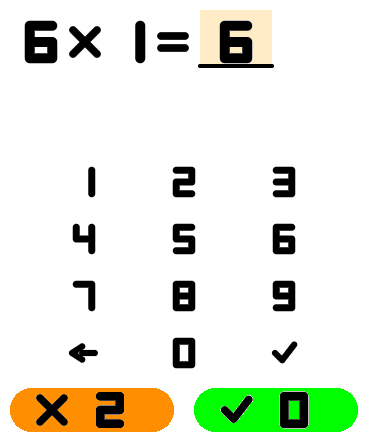
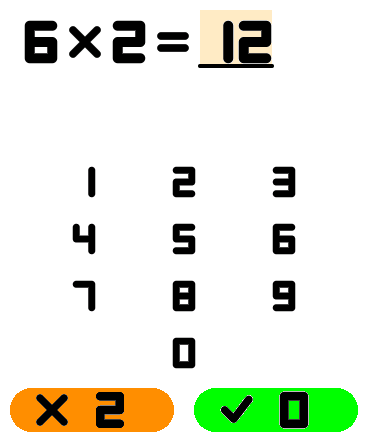
tables: the second digit is the answer, so there is nothing left to press
The owner watched his niece use this: "6x7 elle a marque 42 et elle
attendait. Apres elle se rappelait qu'il fallait qu'elle appuie sur
rentrer." A key meaning "I have finished answering" is a convention she has
no reason to hold, and she could not work out backspace either.

So the answer judges itself the moment it is complete. That needs one
number the app can be sure of, and dropping x1 supplies it: 6x2 through
9x10 is 12 to 90, every product exactly two digits, no special case
anywhere. The nines come in at the same time, which costs nothing since
they are two digits too.

Both keys go with it. Rather than leave dead cells either side of a lone
zero, the zero takes the whole bottom row: the easiest target on the pad,
which suits the digit reached for last and least confidently.

The caret goes too, on the owner's own report of it on the panel: with
self-judging its job lasted one keystroke, and a 4px capsule reads as a
stair at 322ppi.

The cost, stated plainly: a slip is now marked wrong instead of corrected.
PHASE_WRONG_RETRY already puts the same question straight back, so it costs
one red mark and an immediate second go, and nothing on the pad has to be
taught. If that rate bothers her in use, backspace is a smaller change than
teaching a key nobody presses.

The three tests that pinned backspace and the caret are rewritten to pin
what replaced them, including the absence of the caret, rather than
[…]

diff --git a/devices/rp2350-amoled-1.8/emulator/wasm/tests/feature-tables.ts b/devices/rp2350-amoled-1.8/emulator/wasm/tests/feature-tables.ts
@@ -236,16 +236,29 @@ async function main() {
       `worst offender (0,0)=none else (${worst.x},${worst.y})`);
   }
 
-  // ---- a digit tap appends to the answer, backspace removes it ----------
+  // ---- a digit tap appends, and the whole bottom row is one zero --------
+  //
+  // Backspace and the check key are both gone (the answer judges itself the
+  // moment its second digit lands), so the bottom row is a single
+  // triple-width zero. This used to assert that the bottom-left cell logged
+  // a backspace; it now asserts that the SAME two positions, either end of
+  // that row, both land on the zero. Rewritten rather than deleted: the row
+  // still has to do something, and what it does changed.
   {
     const dev = await loadDevice();
     await enterTables(dev, APP_TABLES);
     pressCell(dev, digitCell(4));
     let log = dev.drainLog();
     check("a digit tap logs the digit it appended", log.some((l) => l.includes("tables: digit 4")), log.join(" | "));
-    pressCell(dev, CELL_BACK);
-    log = dev.drainLog();
-    check("backspace logs", log.some((l) => l.includes("tables: backspace")), log.join(" | "));
+
+    for (const [name, cell] of [["left", CELL_BACK], ["right", CELL_CHECK]] as const) {
+      const d2 = await loadDevice();
+      await enterTables(d2, APP_TABLES);
+      pressCell(d2, cell);
+      const l2 = d2.drainLog();
+      check(`the bottom row's ${name} end is the zero key`,
+        l2.some((l) => l.includes("tables: digit 0")), l2.join(" | "));
+    }
   }
 
   // ---- a short tap, shorter than the old 112ms arm+confirm floor, still
@@ -348,19 +361,22 @@ async function main() {
   {
     const dev = await loadDevice();
     await enterTables(dev, APP_TABLES);
-    let sawDark = false, sawLight = false;
+    // INVERTED, on purpose. This used to require that a caret blink here.
+    // The owner asked for it gone ("le curseur de saisie de texte est
+    // pixellise, je pense qu'on devrait l'enlever"), and with the answer
+    // judging itself it had a job lasting one keystroke. So the assertion
+    // now pins the ABSENCE: nothing may ever darken those pixels while she
+    // is entering, across more than two full blink periods. Kept rather
+    // than deleted because "no caret" is a real, checkable promise, and a
+    // caret creeping back in is exactly the kind of thing nobody notices.
+    let sawDark = false;
     for (let i = 0; i < 1300; i += 100) {
       clock += 100;
       dev.tick(clock);
       const fb = dev.fb();
-      // The cursor's x depends on this question's factor width (1 or 2
-      // digits) - check both candidate positions, see this file's own
-      // comment on Q_SLOT_X0_NARROW/WIDE above.
-      const dark = CURSOR_X_CANDIDATES.some((cx) => grayAt(fb, cx, QROW_CY) < 180);
-      if (dark) sawDark = true; else sawLight = true;
+      if (CURSOR_X_CANDIDATES.some((cx) => grayAt(fb, cx, QROW_CY) < 180)) sawDark = true;
     }
-    check("the answer blank's cursor blinks while entering (both a lit and an unlit sample seen)",
-      sawDark && sawLight, `sawDark=${sawDark} sawLight=${sawLight}`);
+    check("no caret ever blinks in the answer blank", !sawDark, `sawDark=${sawDark}`);
   }
 
   // ---- after ONE digit, the caret sits clearly right of the digit's own
@@ -391,7 +407,7 @@ async function main() {
         }
       }
     }
-    check("after one digit, the caret is visible clearly right of the digit's own ink", sawCursor,
+    check("after one digit, nothing is drawn right of the digit's own ink", !sawCursor,
       `checked x in [${CURSOR_X_LEN1_CANDIDATES.join(",")}]`);
   }
 

diff --git a/devices/rp2350-amoled-1.8/firmware/apps/tables.c b/devices/rp2350-amoled-1.8/firmware/apps/tables.c
@@ -303,6 +303,16 @@ static bool cell_is_digit(int cell) { return (cell >= 0 && cell <= 8) || cell ==
 static int  cell_digit_value(int cell) { return cell == CELL_ZERO ? 0 : cell + 1; }
 
 static void cell_rect(int cell, int *bx, int *by, int *bw, int *bh) {
+    // The zero owns the whole bottom row, so its rect is three cells wide -
+    // see numpad_hit(). Everything downstream (the hover disc, the glyph, the
+    // push) reads this one function, so the wide key is one place, not four.
+    if (cell == CELL_ZERO) {
+        *bx = NUMPAD_X0;
+        *by = NUMPAD_Y0 + (NUMPAD_ROWS - 1) * CELL_H;
+        *bw = NUMPAD_W;
+        *bh = CELL_H;
+        return;
+    }
     int row = cell / NUMPAD_COLS, col = cell % NUMPAD_COLS;
     *bx = NUMPAD_X0 + col * CELL_W;
     *by = NUMPAD_Y0 + row * CELL_H;
@@ -321,6 +331,12 @@ static int numpad_hit(int lx, int ly) {
     int row = (ly - NUMPAD_Y0) / CELL_H;
     if (col >= NUMPAD_COLS) col = NUMPAD_COLS - 1;
     if (row >= NUMPAD_ROWS) row = NUMPAD_ROWS - 1;
+    // The bottom row is ONE key, the zero, three cells wide. Backspace and
+    // check both left with the check key (see TABLE_BASES above), and two
+    // dead cells either side of a lone zero would be a keypad with holes in
+    // it. A triple-width zero is instead the easiest target on the pad,
+    // which suits the digit a child reaches for last and least confidently.
+    if (row == NUMPAD_ROWS - 1) return CELL_ZERO;
     return row * NUMPAD_COLS + col;
 }
 
@@ -718,13 +734,27 @@ static void draw_number_lr(int cx, int cy, int digitW, int digitH, int t,
  * tables is ever wanted, TABLE_BASES below is the one array that grows;
  * nothing else in this file assumes there are three.
  */
-#define TABLE_COUNT 3
-static const int TABLE_BASES[TABLE_COUNT] = { 6, 7, 8 };
+// NINES ADDED, AND THE ONES DROPPED, and the second half is the load-bearing
+// change. The owner watched his niece use this and reported that she typed
+// 42, then waited: the check key is not in her model of what answering is.
+// The fix is to judge the moment the answer is complete, which needs the app
+// to know how many digits "complete" means - and dropping x1 makes that one
+// number for every question in the deck. 6x2 through 9x10 is 12 to 90:
+// EVERY product is exactly two digits. Nothing else in this file has to ask.
+//
+// The ones were the cheapest thing to give up for that: x1 is the fact a
+// child already has before she needs a drill, and it was the only source of
+// a one-digit answer.
+#define TABLE_COUNT 4
+static const int TABLE_BASES[TABLE_COUNT] = { 6, 7, 8, 9 };
+#define FACTOR_MIN 2
 #define FACTOR_MAX 10
-#define FACT_COUNT (TABLE_COUNT * FACTOR_MAX) // 30
+#define FACTOR_COUNT (FACTOR_MAX - FACTOR_MIN + 1)  // 9
+#define FACT_COUNT (TABLE_COUNT * FACTOR_COUNT)     // 36
+#define ANSWER_DIGITS 2                             // true of all 36, see above
 
-static int fact_base(int f)    { return TABLE_BASES[f / FACTOR_MAX]; }
-static int fact_factor(int f)  { return (f % FACTOR_MAX) + 1; }
+static int fact_base(int f)    { return TABLE_BASES[f / FACTOR_COUNT]; }
+static int fact_factor(int f)  { return (f % FACTOR_COUNT) + FACTOR_MIN; }
 static int fact_product(int f) { return fact_base(f) * fact_factor(f); }
 
 static uint32_t rng_next(uint32_t *state) {
@@ -931,11 +961,9 @@ static void render_cell(int cell, bool hovered) {
     int cx = bx + bw / 2, cy = by + bh / 2;
     if (cell_is_digit(cell)) {
         draw_number_lr(cx, cy, 24, 32, 7, cell_digit_value(cell), false, PX_BLACK);
-    } else if (cell == CELL_BACK) {
-        draw_icon_back(cx, cy, 12.0f, PX_BLACK);
-    } else { // CELL_CHECK
-        draw_icon_check(cx, cy, 12.0f, PX_BLACK);
     }
+    // No other kind of cell exists any more: the pad is ten digits and
+    // nothing else.
 }
 
 static void push_cell(int cell) {
@@ -956,10 +984,6 @@ static void draw_loupe_at(int bx, int by, int bw, int bh, int cell) {
     shapes_fill_disc_aa((float)cx, (float)cy, r, loupe_bubble_color());
     if (cell_is_digit(cell)) {
         draw_number_lr(cx, cy, 30, 48, 10, cell_digit_value(cell), false, PX_BLACK);
-    } else if (cell == CELL_BACK) {
-        draw_icon_back(cx, cy, 20.0f, PX_BLACK);
-    } else if (cell == CELL_CHECK) {
-        draw_icon_check(cx, cy, 20.0f, PX_BLACK);
     }
 }
 
@@ -1132,84 +1156,24 @@ static void redraw_answer(tables_state_t *s, uint16_t tint, bool showCorrectValu
     s->cursorDrawn = false;
 }
 
-/* ---- THE BLINKING CURSOR ---------------------------------------------------
+/* ---- there is no cursor any more -------------------------------------------
  *
- * The owner's drawing labels the blank "blink": it carries a caret while
- * she is entering an answer, the iOS-keyboard convention for "this is
- * where typing lands" applied to a single two-digit field. Purely a
- * function of the clock and s->answerLen - no stored "when did it last
- * toggle" base - so PHASE_ASK can start, stop and restart (a wrong retry
- * clears the answer and returns to PHASE_ASK) without ever needing to
- * resync a phase: the picture at any given tick is fully determined by
- * (nowMs, answerLen, active), the same "settles to what the state alone
- * would draw" bar the gate holds every animation on this device to.
- * s->cursorDrawn/s->cursorX are bookkeeping only, so a tick where nothing
- * changed does not re-push a rectangle unchanged from the tick before.
+ * The owner's mockup labelled the answer blank "blink" and it carried a
+ * caret for a while. Two things then removed the need for it, in order.
+ *
+ * First the check key went (see action_digit): the answer is judged the
+ * moment its second digit lands, so the caret's whole job - "this is where
+ * the next thing you type will go, keep going" - now lasts exactly one
+ * keystroke. Second, on the real panel the owner read it as a defect
+ * rather than as a hint: "le curseur de saisie de texte est pixellise, je
+ * pense qu'on devrait l'enlever". A 4px capsule is anti-aliased and still
+ * reads as a stair on a 322ppi panel held at reading distance.
+ *
+ * What is left says the same thing without a moving part: the underline
+ * shows where the answer goes, and the digits appear on it as she taps.
+ * BLINK_PERIOD_MS survives because the wrong-answer reveal still uses it.
  */
 #define BLINK_PERIOD_MS 500u
-#define Q_CURSOR_H 34
-#define Q_CURSOR_R 2.0f
-
-// Caret x for 0, 1 or 2 digits typed - just after the last digit's own
-// box, or at the slot's own left edge when empty (the owner's mockup:
-// "= |___", the caret sitting at the LEFT of the underline before she has
-// typed anything). Reads question_slot_x0(s), so the caret tracks the
-// same per-question shift the factor's own width causes.
-static int cursor_x_for_len(tables_state_t *s) {
-    int x0 = question_slot_x0(s);
-    if (s->answerLen <= 0) return x0 + 4;
-    if (s->answerLen == 1) {
-        // A single digit renders CENTRED in the whole slot (the same
-        // question_slot_cx() redraw_answer() draws it at), not left-aligned
-        // against x0 - the caret has to follow the digit's ACTUAL right
-        // edge or it lands inside the digit's own ink. Measured (owner's
-        // bug report, "the cursor doesn't move when I type some numbers"):
-        // a centred digit sits squarely inside the span a naive fixed
-        // offset would have used - the caret WAS moving, but into a spot
-        // the digit's own stroke covered, so nothing looked different.
-        int singleCx = x0 + Q2W / 2; // == question_slot_cx(s)
-        return singleCx + QDIGIT_W / 2 + 6;
-    }
-    return x0 + Q_SLOT_W + 6;
-}
-
-// The gate's app-fuzzing pass caught this one: a capsule's round CAP
-// extends a full RADIUS past the endpoint it is given, not "+1" - the
-// original version of this rect under-covered the cursor's own ink by
-// several pixels at the top and bottom, a real decision-0001-shaped bug
-// (correct in the emulator's framebuffer, would have gone stale on the
-// board). `rr` (radius, rounded up, plus one for AA falloff) is added on
-// every side, matching what shapes_fill_capsule_aa actually paints.
-static void cursor_rect(int cx, int *bx, int *by, int *bw, int *bh) {
-    int rr = (int)Q_CURSOR_R + 1;
-    int half = Q_CURSOR_H / 2;
-    *bx = cx - rr;
-    *by = QROW_CY - half - rr;
-    *bw = 2 * rr;
-    *bh = 2 * (half + rr);
-}
-
-static void update_cursor(tables_state_t *s, uint32_t nowMs, bool active) {
-    bool want = active && (((nowMs / BLINK_PERIOD_MS) % 2u) == 0u);
-    int cx = cursor_x_for_len(s);
-    int bx, by, bw, bh;
-
-    if (s->cursorDrawn && (!want || cx != s->cursorX)) {
-        cursor_rect(s->cursorX, &bx, &by, &bw, &bh);
-        gfx_fill_rect(bx, by, bw, bh, PX_WHITE);
-        gfx_push_wh(bx, by, bw, bh);
-        s->cursorDrawn = false;
-    }
-    if (want && !s->cursorDrawn) {
-        float half = (float)Q_CURSOR_H / 2.0f;
-        shapes_fill_capsule_aa((float)cx, (float)QROW_CY - half, Q_CURSOR_R,
-                                (float)cx, (float)QROW_CY + half, Q_CURSOR_R, PX_BLACK);
-        cursor_rect(cx, &bx, &by, &bw, &bh);
-        gfx_push_wh(bx, by, bw, bh);
-        s->cursorDrawn = true;
-        s->cursorX = cx;
-    }
-}
 
 /* ---- the counter pills --------------------------------------------------
  *
@@ -1365,22 +1329,30 @@ static void resolve_answer(tables_state_t *s, uint32_t nowMs, bool correct) {
 /* =========================================================================
  * INPUT ACTIONS
  * ========================================================================= */
-static void action_digit(tables_state_t *s, int digit) {
-    if (s->answerLen >= 2) return; // no product in these tables exceeds two digits
+// THE ANSWER JUDGES ITSELF, there is no submit. The owner, after watching
+// his niece: "6x7 elle a marqué 42 et elle attendait. Après elle se
+// rappelait qu'il fallait qu'elle appuie sur rentrer." Pressing a key to say
+// "I have finished answering" is a convention she has no reason to hold; the
+// answer being finished is a fact the app can see for itself, because every
+// product in this deck is ANSWER_DIGITS long (see TABLE_BASES).
+//
+// A slip is therefore marked wrong rather than corrected, since backspace
+// went with the check key. That is deliberate and it is the one real cost
+// here: PHASE_WRONG_RETRY already puts the SAME question straight back, so a
+// fat finger costs one red mark and an immediate second go, and there is
+// nothing left on the pad a child has to be taught. If the false-wrong rate
+// turns out to bother her in use, backspace comes back - that is a smaller
+// change than teaching a key nobody presses.
+static void action_digit(tables_state_t *s, int digit, uint32_t nowMs) {
+    if (s->answerLen >= ANSWER_DIGITS) return;
     s->answerDigits[s->answerLen++] = digit;
     redraw_answer(s, PX_WHITE, false);
     printf("tables: digit %d\r\n", digit); // observable by the regression tests, same
                                             // convention as morpion.c's "mark cell=" line
-}
-static void action_backspace(tables_state_t *s) {
-    if (s->answerLen > 0) s->answerLen--;
-    redraw_answer(s, PX_WHITE, false);
-    printf("tables: backspace\r\n");
-}
-static void action_submit(tables_state_t *s, uint32_t nowMs) {
-    if (s->answerLen == 0) return;
-    int value = s->answerDigits[0];
-    if (s->answerLen == 2) value = s->answerDigits[0] * 10 + s->answerDigits[1];
+    if (s->answerLen < ANSWER_DIGITS) return;
+
+    int value = 0;
+    for (int i = 0; i < s->answerLen; i++) value = value * 10 + s->answerDigits[i];
     resolve_answer(s, nowMs, value == fact_product(s->factIndex));
 }
 
@@ -1410,7 +1382,6 @@ static void tables_tick(const app_frame_t *f) {
         s->enterMs = f->nowMs;
         s->enterMsSet = true;
     }
-    update_cursor(s, f->nowMs, s->phase == PHASE_ASK);
 
     if (s->phase != PHASE_ASK) {
         if (f->nowMs >= s->phaseDeadlineMs) {
@@ -1482,9 +1453,7 @@ static void tables_tick(const app_frame_t *f) {
 
     if (!wasArmed || cell < 0) return; // cancelled - see this file's header
 
-    if (cell_is_digit(cell)) action_digit(s, cell_digit_value(cell));
-    else if (cell == CELL_BACK) action_backspace(s);
-    else action_submit(s, f->nowMs);
+    if (cell_is_digit(cell)) action_digit(s, cell_digit_value(cell), f->nowMs);
 }
 
 const app_t g_tablesApp = {
